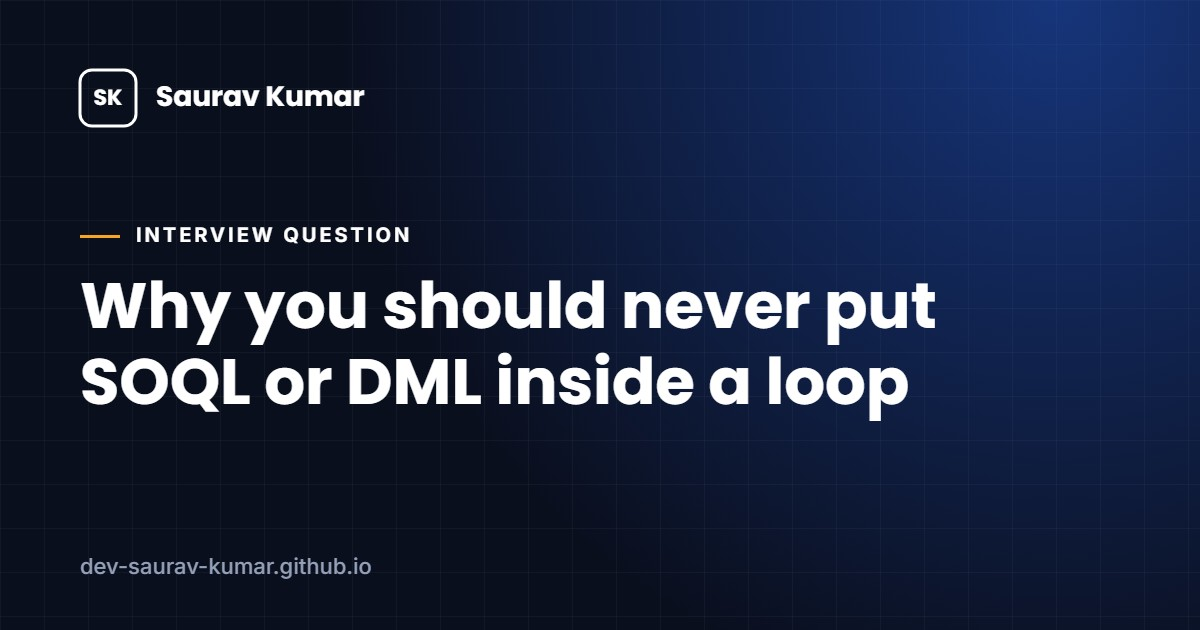
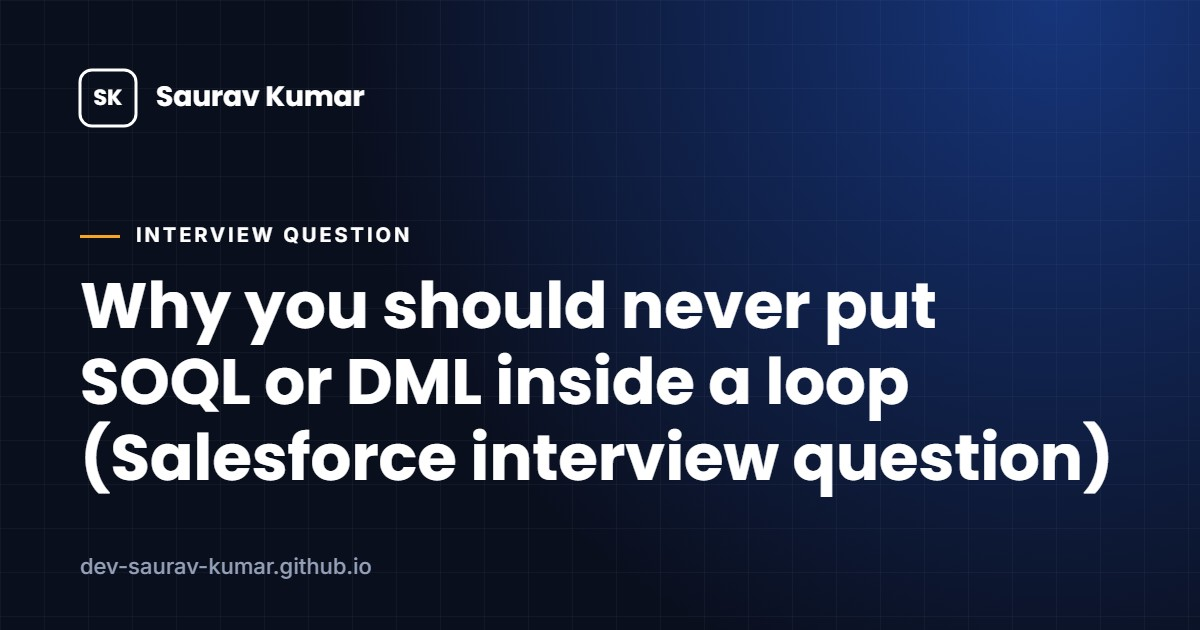
Expand SOQL and DML in a loop post

Changed region(s): [[0.0617, 0.6635, 0.925, 0.7841]]

diff --git a/blog/why-you-should-never-put-soql-or-dml-inside-a-loop.html b/blog/why-you-should-never-put-soql-or-dml-inside-a-loop.html
@@ -5,12 +5,12 @@
   <meta name="viewport" content="width=device-width, initial-scale=1">
   <meta http-equiv="Content-Security-Policy" content="default-src 'self'; script-src 'self' https://gc.zgo.at; style-src 'self' 'unsafe-inline' https://fonts.googleapis.com; font-src https://fonts.gstatic.com; img-src 'self' data: https:; connect-src 'self' https://sauravkumar.goatcounter.com; form-action 'none'; base-uri 'self'; object-src 'none'">
   <meta name="referrer" content="strict-origin-when-cross-origin">
-  <title>Why you should never put SOQL or DML inside a loop | Saurav Kumar</title>
-  <meta name="description" content="A common Salesforce interview question, with the reason behind the rule and the fix.">
+  <title>Why you should never put SOQL or DML inside a loop (Salesforce interview question) | Saurav Kumar</title>
+  <meta name="description" content="A common Salesforce interview question: why SOQL and DML inside a loop break, the error you will see, the fix, how to test it, and the follow-up questions.">
   <link rel="canonical" href="https://dev-saurav-kumar.github.io/blog/why-you-should-never-put-soql-or-dml-inside-a-loop.html">
   <meta property="og:type" content="article">
-  <meta property="og:title" content="Why you should never put SOQL or DML inside a loop | Saurav Kumar">
-  <meta property="og:description" content="A common Salesforce interview question, with the reason behind the rule and the fix.">
+  <meta property="og:title" content="Why you should never put SOQL or DML inside a loop (Salesforce interview question) | Saurav Kumar">
+  <meta property="og:description" content="A common Salesforce interview question: why SOQL and DML inside a loop break, the error you will see, the fix, how to test it, and the follow-up questions.">
   <meta property="og:url" content="https://dev-saurav-kumar.github.io/blog/why-you-should-never-put-soql-or-dml-inside-a-loop.html">
   <meta property="og:image" content="https://dev-saurav-kumar.github.io/blog/images/why-you-should-never-put-soql-or-dml-inside-a-loop-card.jpg">
   <meta property="og:image:width" content="1200">
@@ -23,7 +23,7 @@
   <link href="https://fonts.googleapis.com/css2?family=Inter:wght@400;500;600;700&family=Poppins:wght@500;600;700&display=swap" rel="stylesheet">
   <link rel="stylesheet" href="../assets/styles.css">
   <script src="../assets/theme.js"></script>
-  <script type="application/ld+json">{"@context":"https://schema.org","@type":"BlogPosting","headline":"Why you should never put SOQL or DML inside a loop","description":"A common Salesforce interview question, with the reason behind the rule and the fix.","datePublished":"2026-10-11","dateModified":"2026-10-11","image":"https://dev-saurav-kumar.github.io/blog/images/why-you-should-never-put-soql-or-dml-inside-a-loop-card.jpg","url":"https://dev-saurav-kumar.github.io/blog/why-you-should-never-put-soql-or-dml-inside-a-loop.html","mainEntityOfPage":"https://dev-saurav-kumar.github.io/blog/why-you-should-never-put-soql-or-dml-inside-a-loop.html","articleSection":"Interview question","author":{"@type":"Person","name":"Saurav Kumar","url":"https://dev-saurav-kumar.github.io/"}}</script>
+  <script type="application/ld+json">{"@context":"https://schema.org","@type":"BlogPosting","headline":"Why you should never put SOQL or DML inside a loop (Salesforce interview question)","description":"A common Salesforce interview question: why SOQL and DML inside a loop break, the error you will see, the fix, how to test it, and the follow-up questions.","datePublished":"2026-10-11","dateModified":"2026-10-16","image":"https://dev-saurav-kumar.github.io/blog/images/why-you-should-never-put-soql-or-dml-inside-a-loop-card.jpg","url":"https://dev-saurav-kumar.github.io/blog/why-you-should-never-put-soql-or-dml-inside-a-loop.html","mainEntityOfPage":"https://dev-saurav-kumar.github.io/blog/why-you-should-never-put-soql-or-dml-inside-a-loop.html","articleSection":"Interview question","author":{"@type":"Person","name":"Saurav Kumar","url":"https://dev-saurav-kumar.github.io/"}}</script>
 </head>
 <body>
   <a class="skip" href="#main">Skip to content</a>
@@ -49,8 +49,8 @@
 
     <section class="page-hero">
       <div class="container">
-        <p class="eyebrow"><span>Interview question · <span class="nowrap">11 October 2026</span> · <span class="nowrap">1 min read</span></span></p>
-        <h1>Why you should never put SOQL or DML inside a loop</h1>
+        <p class="eyebrow"><span>Interview question · <span class="nowrap">11 October 2026</span> · <span class="nowrap">4 min read</span></span></p>
+        <h1>Why you should never put SOQL or DML inside a loop (Salesforce interview question)</h1>
       </div>
     </section>
 
@@ -58,45 +58,104 @@
       <div class="container">
         <article class="post" data-slug="why-you-should-never-put-soql-or-dml-inside-a-loop" data-category="Interview question">
           <div class="post-body">
-            <p>This is one of the most common questions in a Salesforce developer interview. The short answer is &quot;governor limits&quot;, but a good answer explains what actually goes wrong.</p>
+            <p>This is one of the most common questions in a Salesforce developer interview. Most people answer "governor limits" and stop there. A strong answer explains what actually breaks, shows the fix, and shows how you would prove the fix works.</p>
             <h2>The question</h2>
-            <p>&quot;Why is it a bad practice to write a SOQL query or a DML statement inside a for loop?&quot;</p>
+            <p>"Why is it a bad practice to write a SOQL query or a DML statement inside a for loop?"</p>
             <h2>The short answer</h2>
-            <p>Salesforce limits how much one transaction can do. In a synchronous transaction you get 100 SOQL queries and 150 DML statements. A trigger can receive up to 200 records at a time. If your code runs one query per record, 200 records means 200 queries, and the transaction fails.</p>
+            <p>Salesforce limits how much work one transaction can do. In normal (synchronous) code you get <strong>100 SOQL queries</strong> and <strong>150 DML statements</strong>. A trigger can receive <strong>up to 200 records</strong> at a time.</p>
+            <p><mark>If your code runs one query per record, 200 records means 200 queries, and the whole transaction fails.</mark></p>
+            <h2>The error you will see</h2>
+            <p>When the code goes over the limit, Salesforce stops it and rolls back everything it did. The error looks like this:</p>
+            <pre><code class="language-text">System.LimitException: Too many SOQL queries: 101</code></pre>
+            <p>For DML inside a loop, the message is <code>Too many DML statements: 151</code>. A limit error cannot be caught with try and catch, so the only real fix is to change the code.</p>
             <h2>Code that breaks</h2>
-            <pre><code class="language-apex">for (Account acc : Trigger.new) {
-    List&lt;Contact&gt; contacts = [SELECT Id FROM Contact WHERE AccountId = :acc.Id];
+            <p>This trigger copies an account's phone number to all of its contacts:</p>
+            <pre><code class="language-apex">trigger AccountTrigger on Account (after update) {
+    for (Account acc : Trigger.new) {
+        List&lt;Contact&gt; contacts = [SELECT Id FROM Contact WHERE AccountId = :acc.Id];
+        for (Contact c : contacts) {
+            c.Phone = acc.Phone;
+            update c;
+        }
+    }
+}</code></pre>
+            <p>It works when you test it with one account. It fails when a data load updates 200 accounts, because the query runs 200 times, and the update runs once for every single contact.</p>
+            <h2>The fix</h2>
+            <p>Run one query for all the accounts, change the contacts in memory, and save them all with one update. <code>Trigger.newMap</code> gives each account by its Id, so every contact can find its own account without another query.</p>
+            <pre><code class="language-apex">trigger AccountTrigger on Account (after update) {
+    List&lt;Contact&gt; contacts = [SELECT Id, AccountId FROM Contact WHERE AccountId IN :Trigger.newMap.keySet()];
+
     for (Contact c : contacts) {
-        c.Description = &#39;Updated&#39;;
-        update c;
+        c.Phone = Trigger.newMap.get(c.AccountId).Phone;
+    }
+
+    update contacts;
+}</code></pre>
+            <p>Now the code uses <strong>one query and one DML statement</strong>, whether it receives 1 account or 200.</p>
+            <h2>Other limits worth knowing</h2>
+            <ul><li><strong>200 SOQL queries</strong> in asynchronous code (Batch, Queueable, future methods), instead of 100</li><li><strong>50,000 records</strong> in total can be returned by all queries in one transaction</li><li><strong>10,000 records</strong> in total can be changed by DML in one transaction</li><li><strong>150 DML statements</strong>, in both synchronous and asynchronous code</li></ul>
+            <h2>How to prove your code is safe</h2>
+            <p>Write a test that sends 200 records at once, the same as a real data load:</p>
+            <pre><code class="language-apex">@isTest
+private class AccountTriggerTest {
+    @isTest
+    static void updatesTwoHundredAccounts() {
+        List&lt;Account&gt; accounts = new List&lt;Account&gt;();
+        for (Integer i = 0; i &lt; 200; i++) {
+            accounts.add(new Account(Name = 'Test ' + i));
+        }
+        insert accounts;
+
+        List&lt;Contact&gt; contacts = new List&lt;Contact&gt;();
+        for (Account acc : accounts) {
+            contacts.add(new Contact(LastName = 'Test', AccountId = acc.Id));
+        }
+        insert contacts;
+
+        for (Account acc : accounts) {
+            acc.Phone = '9999999999';
+        }
+
+        Test.startTest();
+        update accounts;
+        Test.stopTest();
+
+        Assert.areEqual(200, [SELECT COUNT() FROM Contact WHERE Phone = '9999999999']);
+    }
+}</code></pre>
+            <p>If the trigger had a query inside the loop, this test would fail with the limit error. You can also see how many queries your code has used at any point:</p>
+            <pre><code class="language-apex">System.debug(Limits.getQueries() + ' of ' + Limits.getLimitQueries() + ' queries used');</code></pre>
+            <h2>What the interviewer wants to hear</h2>
+            <ul><li>You know the limits are per transaction, not per record.</li><li>You always write code for many records, not for one.</li><li>You know the pattern: collect the Ids, query once, change in memory, update once.</li><li>You test with 200 records to prove it.</li></ul>
+            <h2>Follow-up questions to expect</h2>
+            <h3>What if I need the related records for each parent?</h3>
+            <p>Use a subquery, so one query brings each account together with its contacts:</p>
+            <pre><code class="language-apex">List&lt;Contact&gt; contactsToUpdate = new List&lt;Contact&gt;();
+
+for (Account acc : [SELECT Id, Phone, (SELECT Id FROM Contacts) FROM Account WHERE Id IN :Trigger.newMap.keySet()]) {
+    for (Contact c : acc.Contacts) {
+        c.Phone = acc.Phone;
+        contactsToUpdate.add(c);
     }
 }
-</code></pre>
-            <p>This works when you test it with one record. It fails when a data load sends 200 accounts, because the query runs 200 times.</p>
-            <h2>The fix</h2>
-            <p>Collect the Ids first, run one query, change the records in memory, and run one update.</p>
-            <pre><code class="language-apex">Set&lt;Id&gt; accountIds = new Set&lt;Id&gt;();
-for (Account acc : Trigger.new) {
-    accountIds.add(acc.Id);
+
+update contactsToUpdate;</code></pre>
+            <p>Or run one query and group the results in a <code>Map&lt;Id, List&lt;Contact&gt;&gt;</code>, with the account Id as the key.</p>
+            <h3>Can I read the account's phone in the same query?</h3>
+            <p>Yes. Query the contacts and include <code>Account.Phone</code>, the parent's field. Each contact then carries its account's phone, so you do not need a map at all:</p>
+            <pre><code class="language-apex">List&lt;Contact&gt; contactsToUpdate = new List&lt;Contact&gt;();
+
+for (Contact con : [SELECT Id, Phone, Account.Phone FROM Contact WHERE AccountId IN :Trigger.newMap.keySet()]) {
+    con.Phone = con.Account.Phone;
+    contactsToUpdate.add(con);
 }
 
-List&lt;Contact&gt; contacts = [ SELECT Id, Description FROM Contact WHERE AccountId IN :accountIds ];
-
-for (Contact c : contacts) {
-    c.Description = &#39;Updated&#39;;
-}
-
-update contacts;
-</code></pre>
-            <p>Now the code uses one query and one DML statement, whether it receives 1 record or 200.</p>
-            <h2>What the interviewer wants to hear</h2>
-            <ul>
-            <li>You know the limits are per transaction, not per record.</li>
-            <li>You always write code for many records, not for one.</li>
-            <li>You know the pattern: collect, query once, update once.</li>
-            </ul>
-            <h2>The same rule applies to Flows</h2>
-            <p>A Get Records or Update Records element inside a Flow loop has the same problem. Move it outside the loop and use a collection.</p>
+update contactsToUpdate;</code></pre>
+            <p>This works in an <code>after update</code> trigger, because by then the query already sees the account's new phone number.</p>
+            <h3>Can I avoid the limit by catching the error?</h3>
+            <p>No. A <code>LimitException</code> cannot be caught. The code has to be written so it never reaches the limit.</p>
+            <h3>Does the same rule apply to Flows?</h3>
+            <p>Yes. A Get Records, Create Records or Update Records element inside a Flow loop counts against the same limits. Move it outside the loop: collect the records in a collection variable inside the loop, then save them with one element after it.</p>
           </div>
           <div class="post-share">
             <span>Share this post</span>
